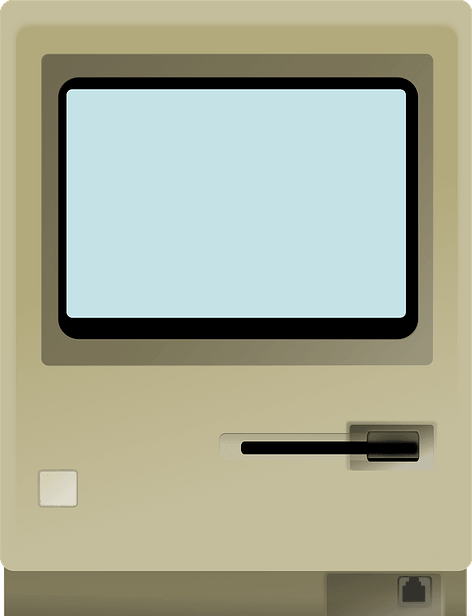
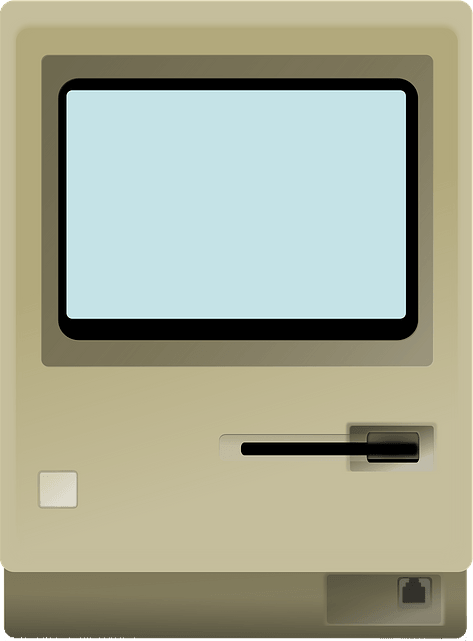
fixes

diff --git a/src/components/Macintosh.tsx b/src/components/Macintosh.tsx
@@ -8,10 +8,11 @@
 
    IMPORTANT — boot-zoom contract (see App.tsx MAC_PROFILE):
    The PNG is drawn at (IMG_X, IMG_Y)→IMG_W×IMG_H within the 620×650 viewBox.
-   The clipart's screen occupies PNG pixels (212,96)→336×222, which lands at the
-   GLASS rect below — centred at (≈310,≈175). The glass is kept centred
-   horizontally (cx ≈ 310 = viewW/2) so the boot-zoom stays a simple vertical
-   translate. These GLASS numbers must match MAC_PROFILE in App.tsx.
+   The clipart's screen occupies PNG pixels (211,93)→338×228, which lands just
+   inside the GLASS rect below — centred at (310,198). The glass is sized a hair
+   larger than the clipart's blue screen so the dark CRT fully covers it, and is
+   kept centred horizontally (cx = 310 = viewW/2) so the boot-zoom stays a simple
+   vertical translate. These GLASS numbers must match MAC_PROFILE in App.tsx.
 
      screen 'off'  → dark CRT glass with a soft phosphor glow + blinking prompt
      screen 'boot' → lit glass with the Happy Mac welcome
@@ -19,22 +20,25 @@
 
 import macClipart from '../assets/mac-clipart.png';
 
-/* PNG → viewBox placement. The clipart has been pre-trimmed to just the chassis
-   (its 472×616 bounding box, with the baked-in drop shadow removed) so we fully
-   control the grounding. Scale 0.877 makes it ~414 wide; the offsets centre it
-   on x=310 and rest the flat foot on the desk at viewBox y≈560. */
+/* PNG → viewBox placement. The clipart is the shadow-free "better" Mac, trimmed
+   to its content bounding box (473×641 — chassis incl. the lower base/foot, no
+   drop shadow at all) so we fully control the grounding. Scale ≈0.875 makes it
+   ~414 wide; the offsets centre it on x=310 and rest the foot on the desk at
+   viewBox y≈580. */
 const IMG_X = 103;
-const IMG_Y = 19.7;
-const IMG_W = 414; // 472 * 0.877
-const IMG_H = 540.3; // 616 * 0.877
+const IMG_Y = 18.9;
+const IMG_W = 414; // 473 * 0.875
+const IMG_H = 561; // 641 * 0.875
 
-/* Screen glass in viewBox coords (trimmed screen 68..404 × 92..314 @ scale). */
-const GLASS_X = 163;
-const GLASS_Y = 100;
-const GLASS_W = 295;
-const GLASS_H = 195;
-const GLASS_CX = GLASS_X + GLASS_W / 2; // ≈ 310.5
-const GLASS_CY = GLASS_Y + GLASS_H / 2; // ≈ 197.5
+/* Screen glass in viewBox coords — sized a touch larger than the clipart's blue
+   screen (which lands at ≈161.6..457.5 × 97.7..297.2) so the dark CRT fully
+   covers it with no blue halo. Centred at (310,198). */
+const GLASS_X = 157;
+const GLASS_Y = 94;
+const GLASS_W = 306;
+const GLASS_H = 208;
+const GLASS_CX = GLASS_X + GLASS_W / 2; // = 310
+const GLASS_CY = GLASS_Y + GLASS_H / 2; // = 198
 
 type MacintoshProps = {
   screen: 'off' | 'boot';
@@ -134,16 +138,22 @@ export default function Macintosh({
         <line x1="-60" y1="534" x2="680" y2="530" />
         <line x1="-60" y1="582" x2="680" y2="586" />
       </g>
-      <ellipse cx="310" cy="520" rx="300" ry="110" fill="url(#deskPool)" />
+      <ellipse cx="310" cy="540" rx="300" ry="115" fill="url(#deskPool)" />
 
-      {/* dissolve the desk into darkness at its edges — no hard cut anywhere */}
-      <rect x="-60" y="425" width="250" height="240" fill="url(#fadeL)" />
-      <rect x="430" y="425" width="250" height="240" fill="url(#fadeR)" />
-      <rect x="-60" y="556" width="740" height="110" fill="url(#fadeB)" />
+      {/* Dissolve the whole scene into pure black at the left/right edges — the
+          fades run the FULL height and reach solid black exactly at the viewBox
+          boundary (x=0 / x=620), so on any window width the desk melts into the
+          black room with no hard horizontal cut. Drawn before the Mac, so they
+          never darken the chassis itself. */}
+      <rect x="0" y="-60" width="200" height="770" fill="url(#fadeL)" />
+      <rect x="420" y="-60" width="200" height="770" fill="url(#fadeR)" />
+      {/* Only the very front lip of the desk fades out, leaving lit wood in
+          front of the Mac so its full bottom bezel reads as resting on the desk */}
+      <rect x="-60" y="622" width="740" height="60" fill="url(#fadeB)" />
 
-      {/* single tight grounding shadow right at the flat foot (y≈560) so the
+      {/* single tight grounding shadow right at the foot (y≈580) so the
           Mac reads as resting on the desk, not floating */}
-      <ellipse cx="310" cy="561" rx="176" ry="11" fill="#000000" opacity="0.5" />
+      <ellipse cx="310" cy="580" rx="176" ry="11" fill="#000000" opacity="0.42" />
 
       {/* ===== Macintosh clipart ========================================== */}
       <image
@@ -214,8 +224,10 @@ export default function Macintosh({
         </g>
       )}
 
-      {/* ===== AndyOS wordmark on the front face (below the screen) ======= */}
-      <g transform="translate(150,332) scale(0.62)">
+      {/* ===== AndyOS wordmark on the front face (below the screen) =======
+          Seated low on the lit front panel — clear of the shaded bezel band
+          just under the screen — with the wordmark tucked up to the badge. */}
+      <g transform="translate(150,354) scale(0.62)">
         <path d="M17 3 Q22 3 21 9 Q16 9 17 3 Z" fill="#4a4438" />
         <path
           d="M16 9 C10 7 4 11 5 19 C6 27 11 30 14 28 C15 27 17 27 18 28
@@ -225,8 +237,8 @@ export default function Macintosh({
         />
       </g>
       <text
-        x="194"
-        y="349"
+        x="172"
+        y="371"
         fill="#4a4438"
         fontFamily='"Press Start 2P", monospace'
         fontSize="11"

diff --git a/src/App.tsx b/src/App.tsx
@@ -49,8 +49,8 @@ const MAC_PROFILE: DeviceProfile = {
   Component: Macintosh,
   viewW: 620,
   viewH: 650,
-  glassW: 295,
-  glassH: 195,
+  glassW: 306,
+  glassH: 208,
   glassCy: 198,
 };
 
